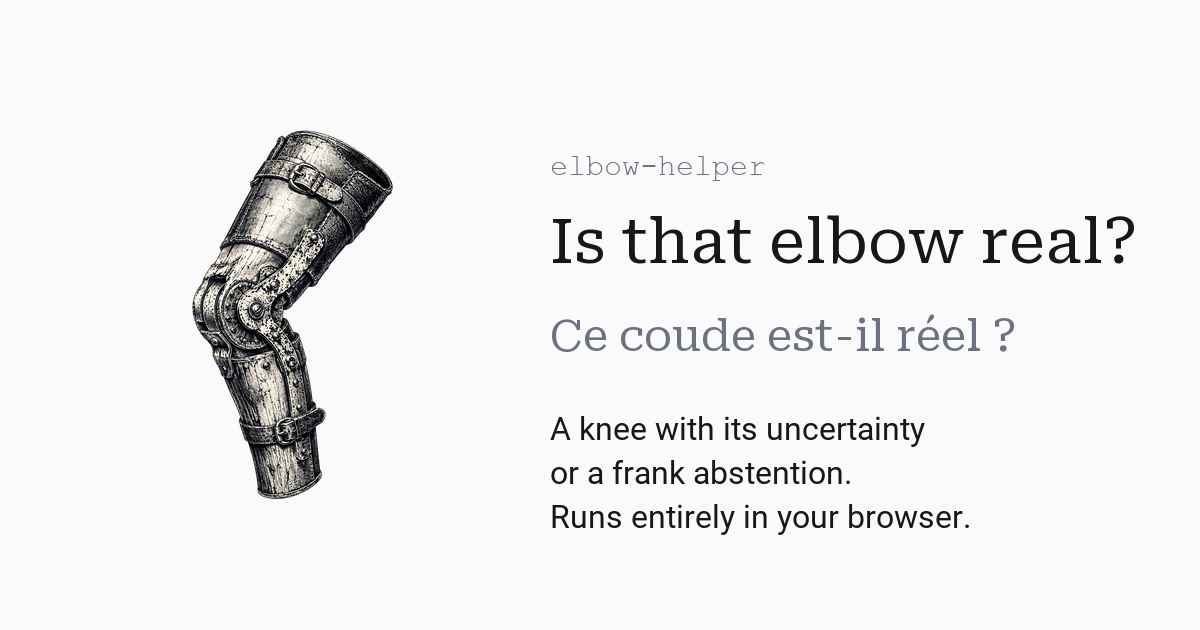
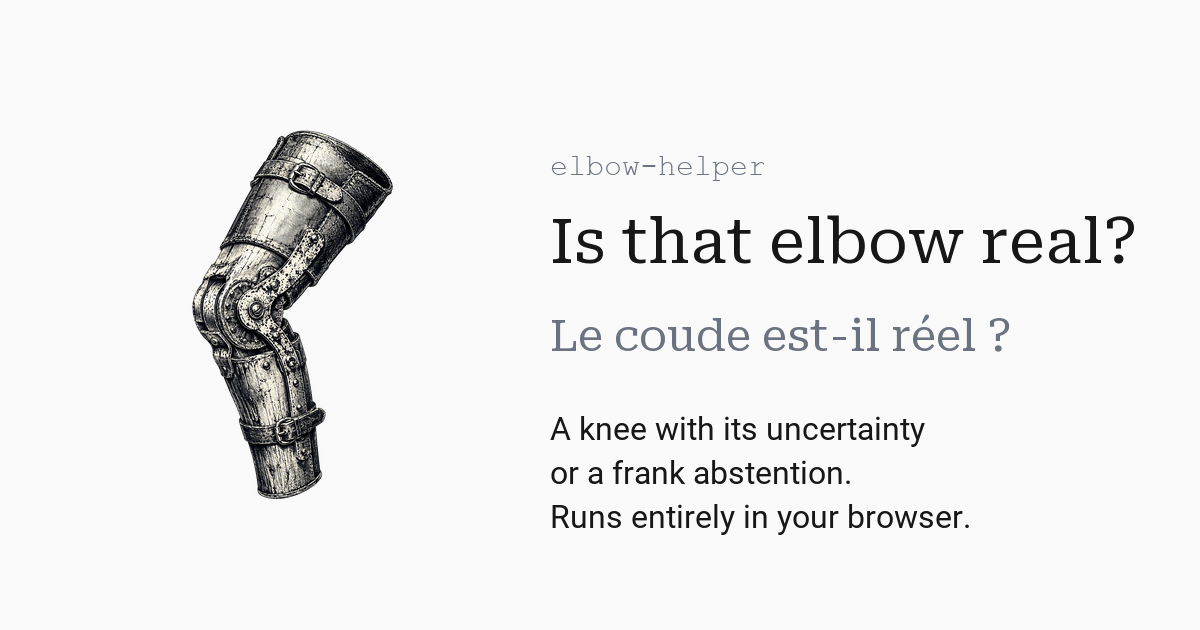
webapp: trim the landing and open the example figures full screen
Per review: consent shortened to email storage only (EN and FR), the hero
guides and the gallery subtitle/note removed, FR baseline reworded to
« Le coude est-il réel ? » everywhere (landing, app strings, JSON-LD, OG
card regenerated). The gallery cards now open a fullscreen lightbox (click
or Escape closes; a #lightbox[hidden] rule keeps the overlay from
intercepting clicks while closed).

Changed region(s): [[0.4625, 0.4825, 0.8633, 0.573]]

diff --git a/webapp/seo/head-seo.html b/webapp/seo/head-seo.html
@@ -11,7 +11,7 @@
 <meta property="og:image" content="{BASE}/static/og-card.png" />
 <meta property="og:image:width" content="1200" />
 <meta property="og:image:height" content="630" />
-<meta property="og:image:alt" content="elbow-helper: an engraved articulated elbow brace next to the baseline 'Is that elbow real?' / 'Ce coude est-il réel ?'." />
+<meta property="og:image:alt" content="elbow-helper: an engraved articulated elbow brace next to the baseline 'Is that elbow real?' / 'Le coude est-il réel ?'." />
 <meta property="og:locale" content="en_US" />
 <meta property="og:locale:alternate" content="fr_FR" />
 <meta name="twitter:card" content="summary_large_image" />
@@ -23,7 +23,7 @@
   "@context": "https://schema.org",
   "@type": "WebApplication",
   "name": "elbow-helper",
-  "alternateName": "Ce coude est-il réel ?",
+  "alternateName": "Le coude est-il réel ?",
   "url": "{BASE}/",
   "description": "elbow-helper locates the knee (or elbow) of a curve of diminishing returns and validates it: scale-space persistence, a segmented-model check, a bootstrap confidence interval and a no-knee null test. A knee is reported with its uncertainty; otherwise the tool abstains with an explicit reason. The pipeline, the diagnostic figure and the exports all run in the visitor's browser via WebAssembly; no data leaves the machine.",
   "applicationCategory": "DeveloperApplication",

diff --git a/webapp/gate/landing.php b/webapp/gate/landing.php
@@ -28,7 +28,7 @@ if ($lang !== 'fr' && $lang !== 'en') {
     $accept = strtolower((string) ($_SERVER['HTTP_ACCEPT_LANGUAGE'] ?? ''));
     $lang = str_starts_with($accept, 'fr') ? 'fr' : 'en';
 }
-$title = $lang === 'fr' ? 'elbow-helper : ce coude est-il réel ?' : 'elbow-helper: is that elbow real?';
+$title = $lang === 'fr' ? 'elbow-helper : le coude est-il réel ?' : 'elbow-helper: is that elbow real?';
 $meta = $lang === 'fr'
     ? "Détection de coude robuste au bruit, dans votre navigateur : un coude assorti de son incertitude ou une abstention franche. Rien n'est envoyé."
     : 'Noise-robust knee and elbow detection in your browser: a knee with its uncertainty or a frank abstention. Nothing is uploaded.';
@@ -111,7 +111,15 @@ $flag = (string) ($_GET['link'] ?? ($_GET['login'] ?? ''));
     figure img { display: block; width: 100%; height: auto; }
     figcaption { padding: .5rem .8rem; font-size: .85rem; font-weight: 500;
       border-top: 3px solid var(--tint, var(--accent)); }
-    .note { font-size: .85rem; color: #78716c; margin-top: .8rem; }
+    figure button { display: block; width: 100%; padding: 0; border: 0;
+      background: transparent; cursor: zoom-in; }
+    figure button:focus-visible { outline: 2px solid var(--accent); outline-offset: 2px; }
+    #lightbox[hidden] { display: none; }
+    #lightbox { position: fixed; inset: 0; z-index: 60; cursor: zoom-out;
+      background: rgba(12,10,9,.88); display: flex;
+      align-items: center; justify-content: center; padding: 2rem; }
+    #lightbox img { max-width: 100%; max-height: 100%; background: #fff;
+      border-radius: .75rem; }
     form { display: grid; gap: .9rem; max-width: 30rem; margin-top: 1rem; }
     label { font-weight: 500; }
     input[type=email] { padding: .65rem .8rem; border: 1px solid #d6d3d1;
@@ -171,8 +179,6 @@ $flag = (string) ($_GET['link'] ?? ($_GET['login'] ?? ''));
 <main>
   <p class="eyebrow">elbow-helper</p>
   <h1 class="headline" data-i18n="title"></h1>
-  <p class="guide" data-i18n="guide1"></p>
-  <p class="guide" data-i18n="guide2"></p>
 
   <section class="card" aria-labelledby="access-h">
     <h2 id="access-h" data-i18n="form_title"></h2>
@@ -199,10 +205,15 @@ $flag = (string) ($_GET['link'] ?? ($_GET['login'] ?? ''));
 
   <section class="card" aria-labelledby="examples-h">
     <h2 id="examples-h" data-i18n="examples_title"></h2>
-    <p data-i18n="examples_sub"></p>
     <div class="gallery" id="gallery"></div>
-    <p class="note" data-i18n="examples_note"></p>
   </section>
+
+  <!-- Fullscreen viewer for the example figures: click a card to open, click
+       anywhere / Escape to close. A plain overlay, no dialog element (no
+       focus trap needed for a single close action). -->
+  <div id="lightbox" hidden>
+    <img id="lightboxImg" src="" alt="" />
+  </div>
 
   <footer>
     BSD 3-Clause License ·
@@ -223,16 +234,13 @@ const STRINGS = {
     theme_to_dark_aria: "Switch to dark theme",
     theme_to_light_aria: "Switch to light theme",
     title: "Is that elbow real?",
-    guide1: "An algorithm will always point at a knee, even on pure noise. elbow-helper asks a harder question: is this knee strong, unique, persistent, reproducible and unlikely under a no-knee model?",
-    guide2: "If yes, you get the knee with a confidence interval. If not, it says so instead of guessing. Everything runs in your browser; nothing is uploaded.",
     form_title: "Get access with your work email",
     form_sub: "We send you a sign-in link. One click and the interactive app is yours for 30 days on this device.",
     email_label: "Work email (generic addresses such as gmail.com are not accepted)",
     consent: "I agree that my email address is stored. Removal on request: warith@deraison.ai.",
     submit: "Email me the access link",
     examples_title: "What you will get",
-    examples_sub: "Four curves from the published examples, rendered by the engine. These previews are static; the app makes them yours: paste your own points, get the verdict and export the figure.",
-    examples_note: "Static previews. The interactive version, with your data, is behind the email gate above.",
+    zoom_aria: "View full screen",
     msg_sent: "Link sent. Check your inbox (and spam folder).",
     msg_generic: "Please use your professional email address, not a generic one (gmail, yahoo, orange…).",
     msg_invalid: "That email address does not look valid.",
@@ -251,23 +259,20 @@ const STRINGS = {
     }
   },
   fr: {
-    doc_title: "elbow-helper : ce coude est-il réel ?",
+    doc_title: "elbow-helper : le coude est-il réel ?",
     meta_description: "Détection de coude robuste au bruit, dans votre navigateur : un coude assorti de son incertitude ou une abstention franche. Rien n'est envoyé.",
     github: "⭐ sur GitHub",
     lang_aria: "Changer de langue",
     theme_to_dark_aria: "Passer au thème sombre",
     theme_to_light_aria: "Passer au thème clair",
-    title: "Ce coude est-il réel ?",
-    guide1: "Un algorithme désigne toujours un coude, même sur du bruit pur. elbow-helper pose une question plus exigeante : ce coude est-il marqué, unique, persistant, reproductible et improbable sous un modèle sans coude ?",
-    guide2: "Si oui, vous obtenez le coude avec son intervalle de confiance. Sinon, le paquet le dit au lieu de deviner. Tout tourne dans votre navigateur ; rien n'est envoyé.",
+    title: "Le coude est-il réel ?",
     form_title: "Accédez avec votre email professionnel",
     form_sub: "Nous vous envoyons un lien de connexion. Un clic et l'application interactive est à vous pour 30 jours sur cet appareil.",
     email_label: "Email professionnel (les adresses génériques type gmail.com sont refusées)",
     consent: "J'accepte que mon adresse email soit enregistrée. Suppression sur demande : warith@deraison.ai.",
     submit: "Recevoir le lien d'accès",
     examples_title: "Ce que vous obtiendrez",
-    examples_sub: "Quatre courbes des exemples publiés, rendues par le moteur. Ces aperçus sont statiques ; l'application les rend vôtres : collez vos propres points, obtenez le verdict, exportez la figure.",
-    examples_note: "Aperçus statiques. La version interactive, avec vos données, est derrière le formulaire ci-dessus.",
+    zoom_aria: "Voir en plein écran",
     msg_sent: "Lien envoyé. Vérifiez votre boîte (et les spams).",
     msg_generic: "Merci d'utiliser votre email professionnel, pas une adresse générique (gmail, yahoo, orange…).",
     msg_invalid: "Cette adresse email ne semble pas valide.",
@@ -327,12 +332,34 @@ function apply() {
     img.loading = "lazy";
     // A missing render hides its card rather than showing a broken image.
     img.onerror = () => fig.remove();
+    const zoom = document.createElement("button");
+    zoom.type = "button";
+    zoom.setAttribute("aria-label", t.examples[id] + " — " + t.zoom_aria);
+    zoom.addEventListener("click", () => openLightbox(img.src, img.alt));
+    zoom.append(img);
     const cap = document.createElement("figcaption");
     cap.textContent = t.examples[id];
-    fig.append(img, cap);
+    fig.append(zoom, cap);
     gallery.append(fig);
   }
 }
+
+// Fullscreen viewer: any click closes it, Escape too.
+const lightbox = document.getElementById("lightbox");
+const lightboxImg = document.getElementById("lightboxImg");
+function openLightbox(src, alt) {
+  lightboxImg.src = src;
+  lightboxImg.alt = alt;
+  lightbox.hidden = false;
+}
+function closeLightbox() {
+  lightbox.hidden = true;
+  lightboxImg.src = "";
+}
+lightbox.addEventListener("click", closeLightbox);
+document.addEventListener("keydown", (ev) => {
+  if (ev.key === "Escape" && !lightbox.hidden) closeLightbox();
+});
 
 function showMsg(kind, text) {
   const box = document.getElementById("formMsg");

diff --git a/webapp/seo/make_og_card.py b/webapp/seo/make_og_card.py
@@ -65,13 +65,13 @@ def main() -> None:
         ["RobotoSerif-Clean.ttf", "Georgia Bold.ttf"], 74, "Is that elbow real?"
     )
     serif_small = fit(
-        ["RobotoSerif-Clean.ttf", "Georgia.ttf"], 44, "Ce coude est-il réel ?"
+        ["RobotoSerif-Clean.ttf", "Georgia.ttf"], 44, "Le coude est-il réel ?"
     )
     mono = font(["RobotoMono-Regular.ttf", "Menlo.ttc", "Courier New.ttf"], 30)
     sans = font(["Roboto-Regular.ttf", "Helvetica.ttc"], 32)
     draw.text((x, 150), "elbow-helper", font=mono, fill=MUTED)
     draw.text((x, 205), "Is that elbow real?", font=serif, fill=INK)
-    draw.text((x, 310), "Ce coude est-il réel ?", font=serif_small, fill=MUTED)
+    draw.text((x, 310), "Le coude est-il réel ?", font=serif_small, fill=MUTED)
     draw.text(
         (x, 410),
         "A knee with its uncertainty\nor a frank abstention.\nRuns entirely in your browser.",
